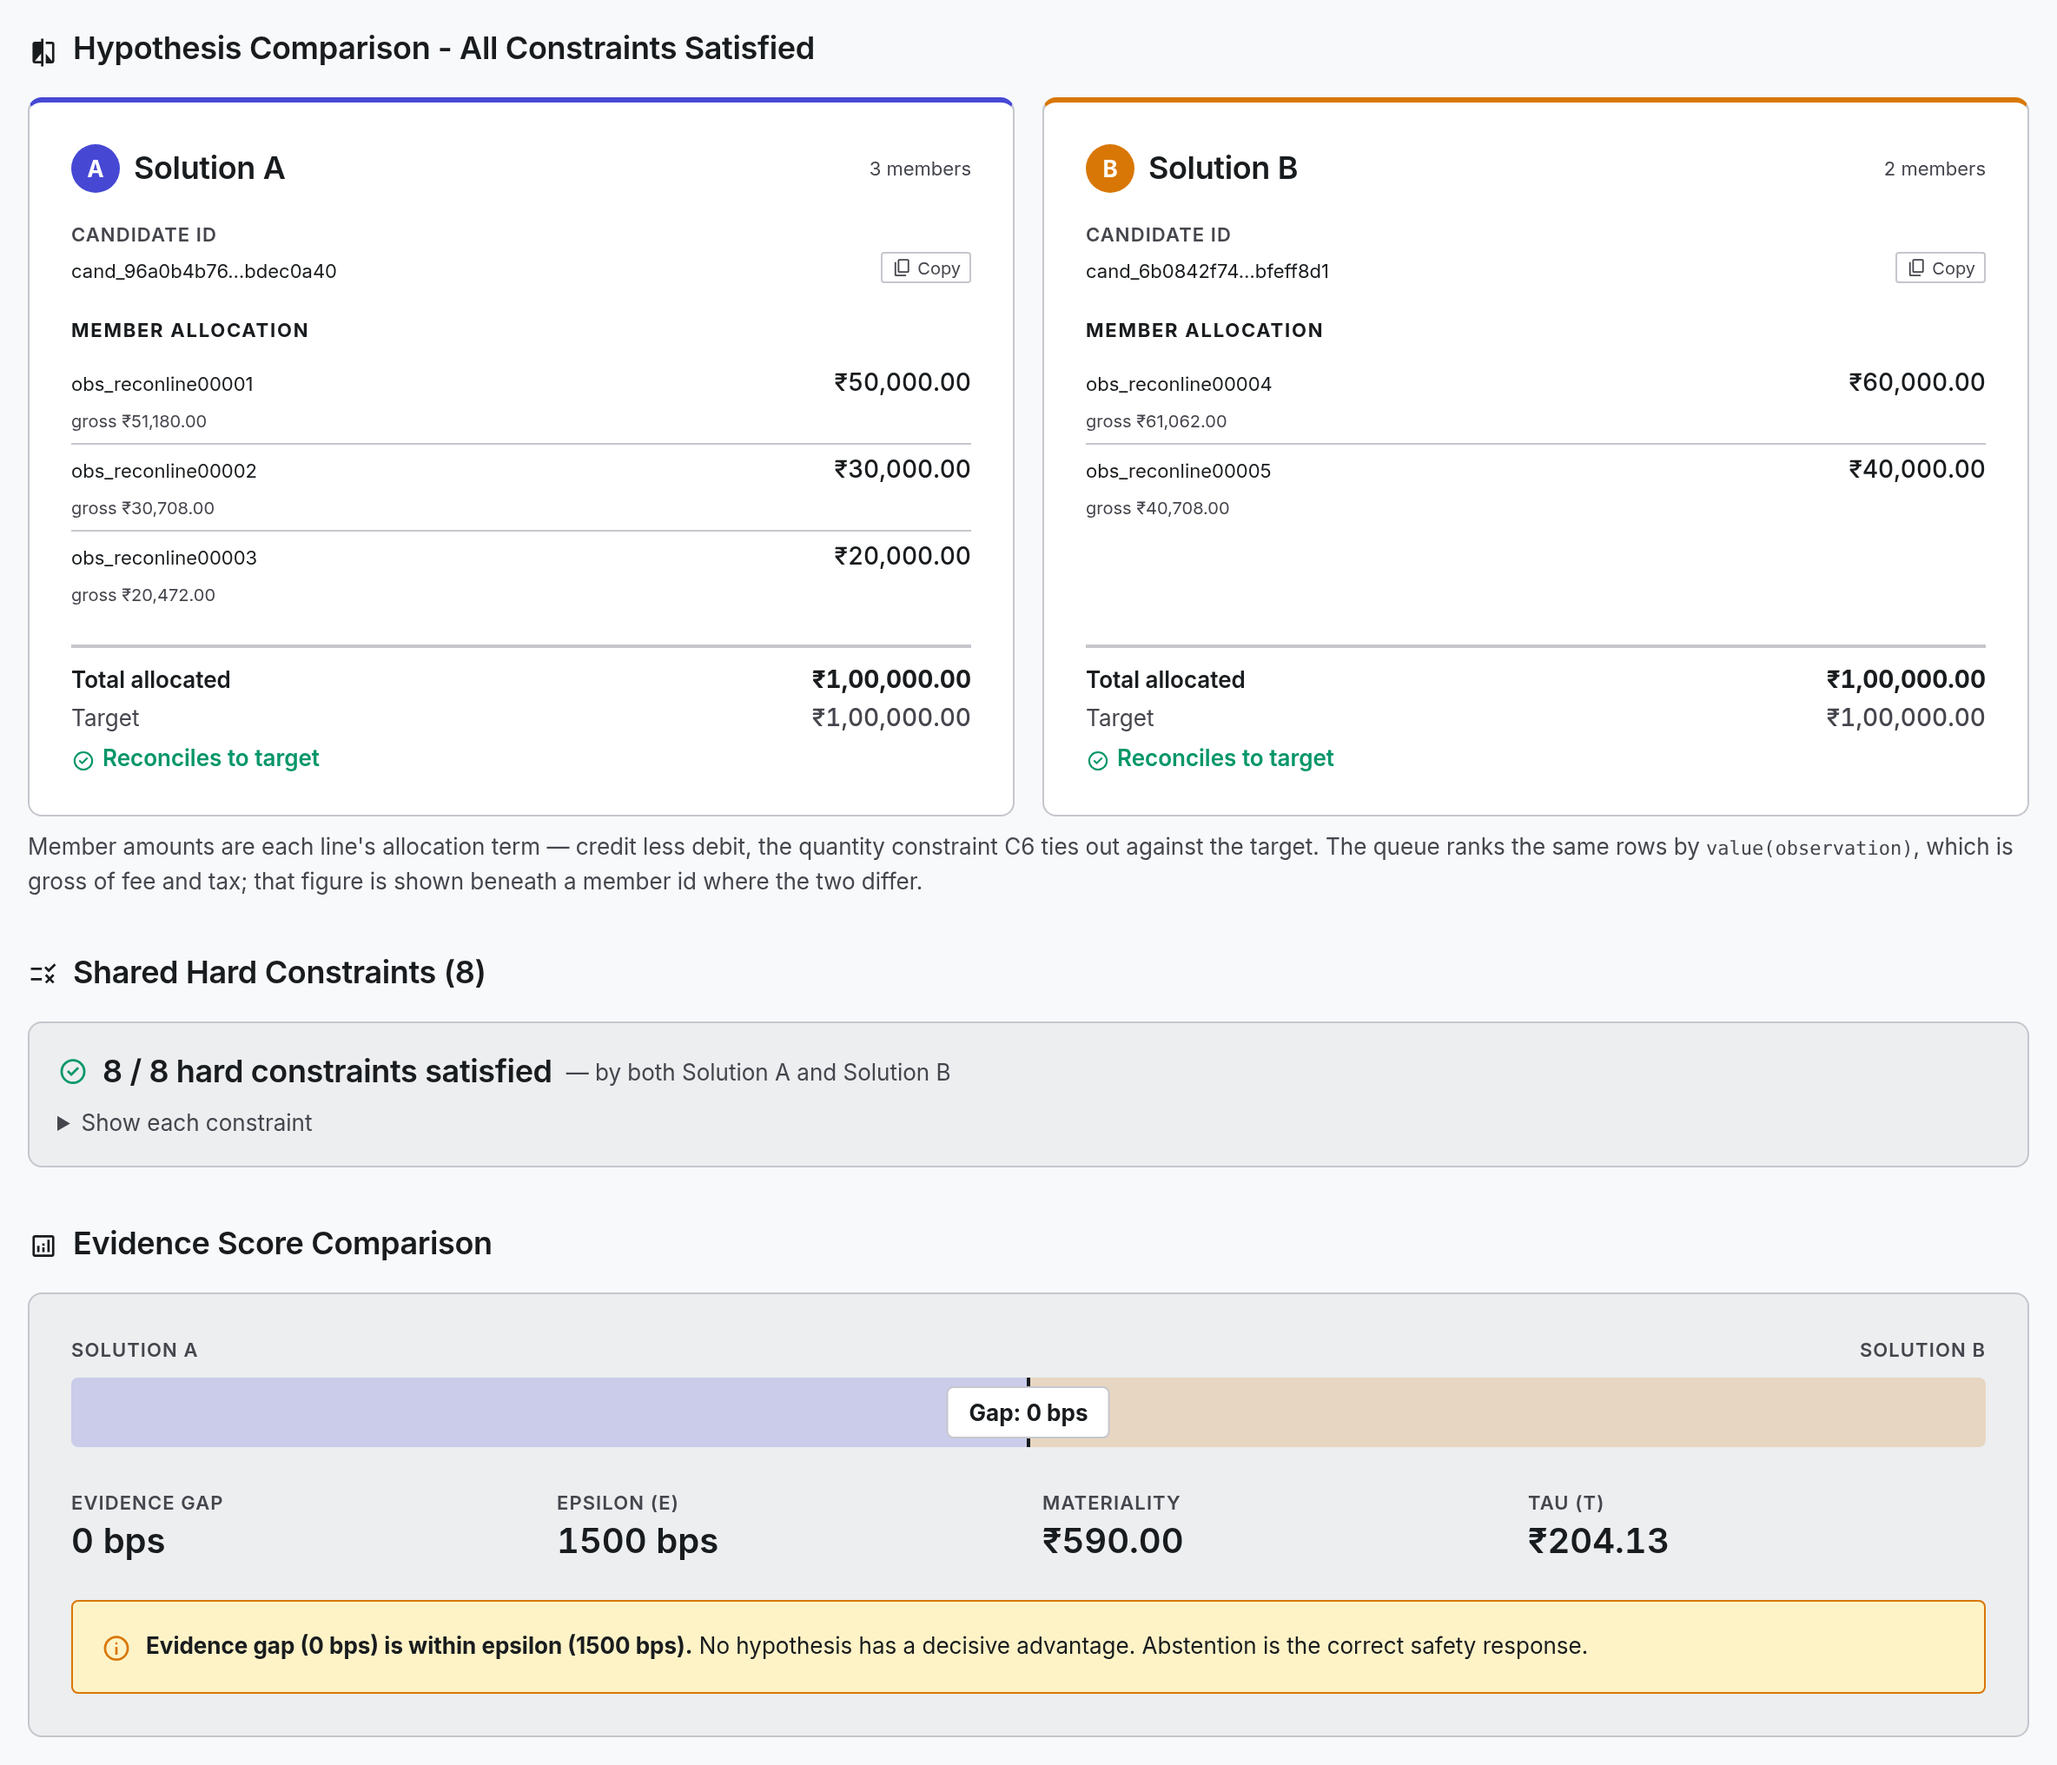
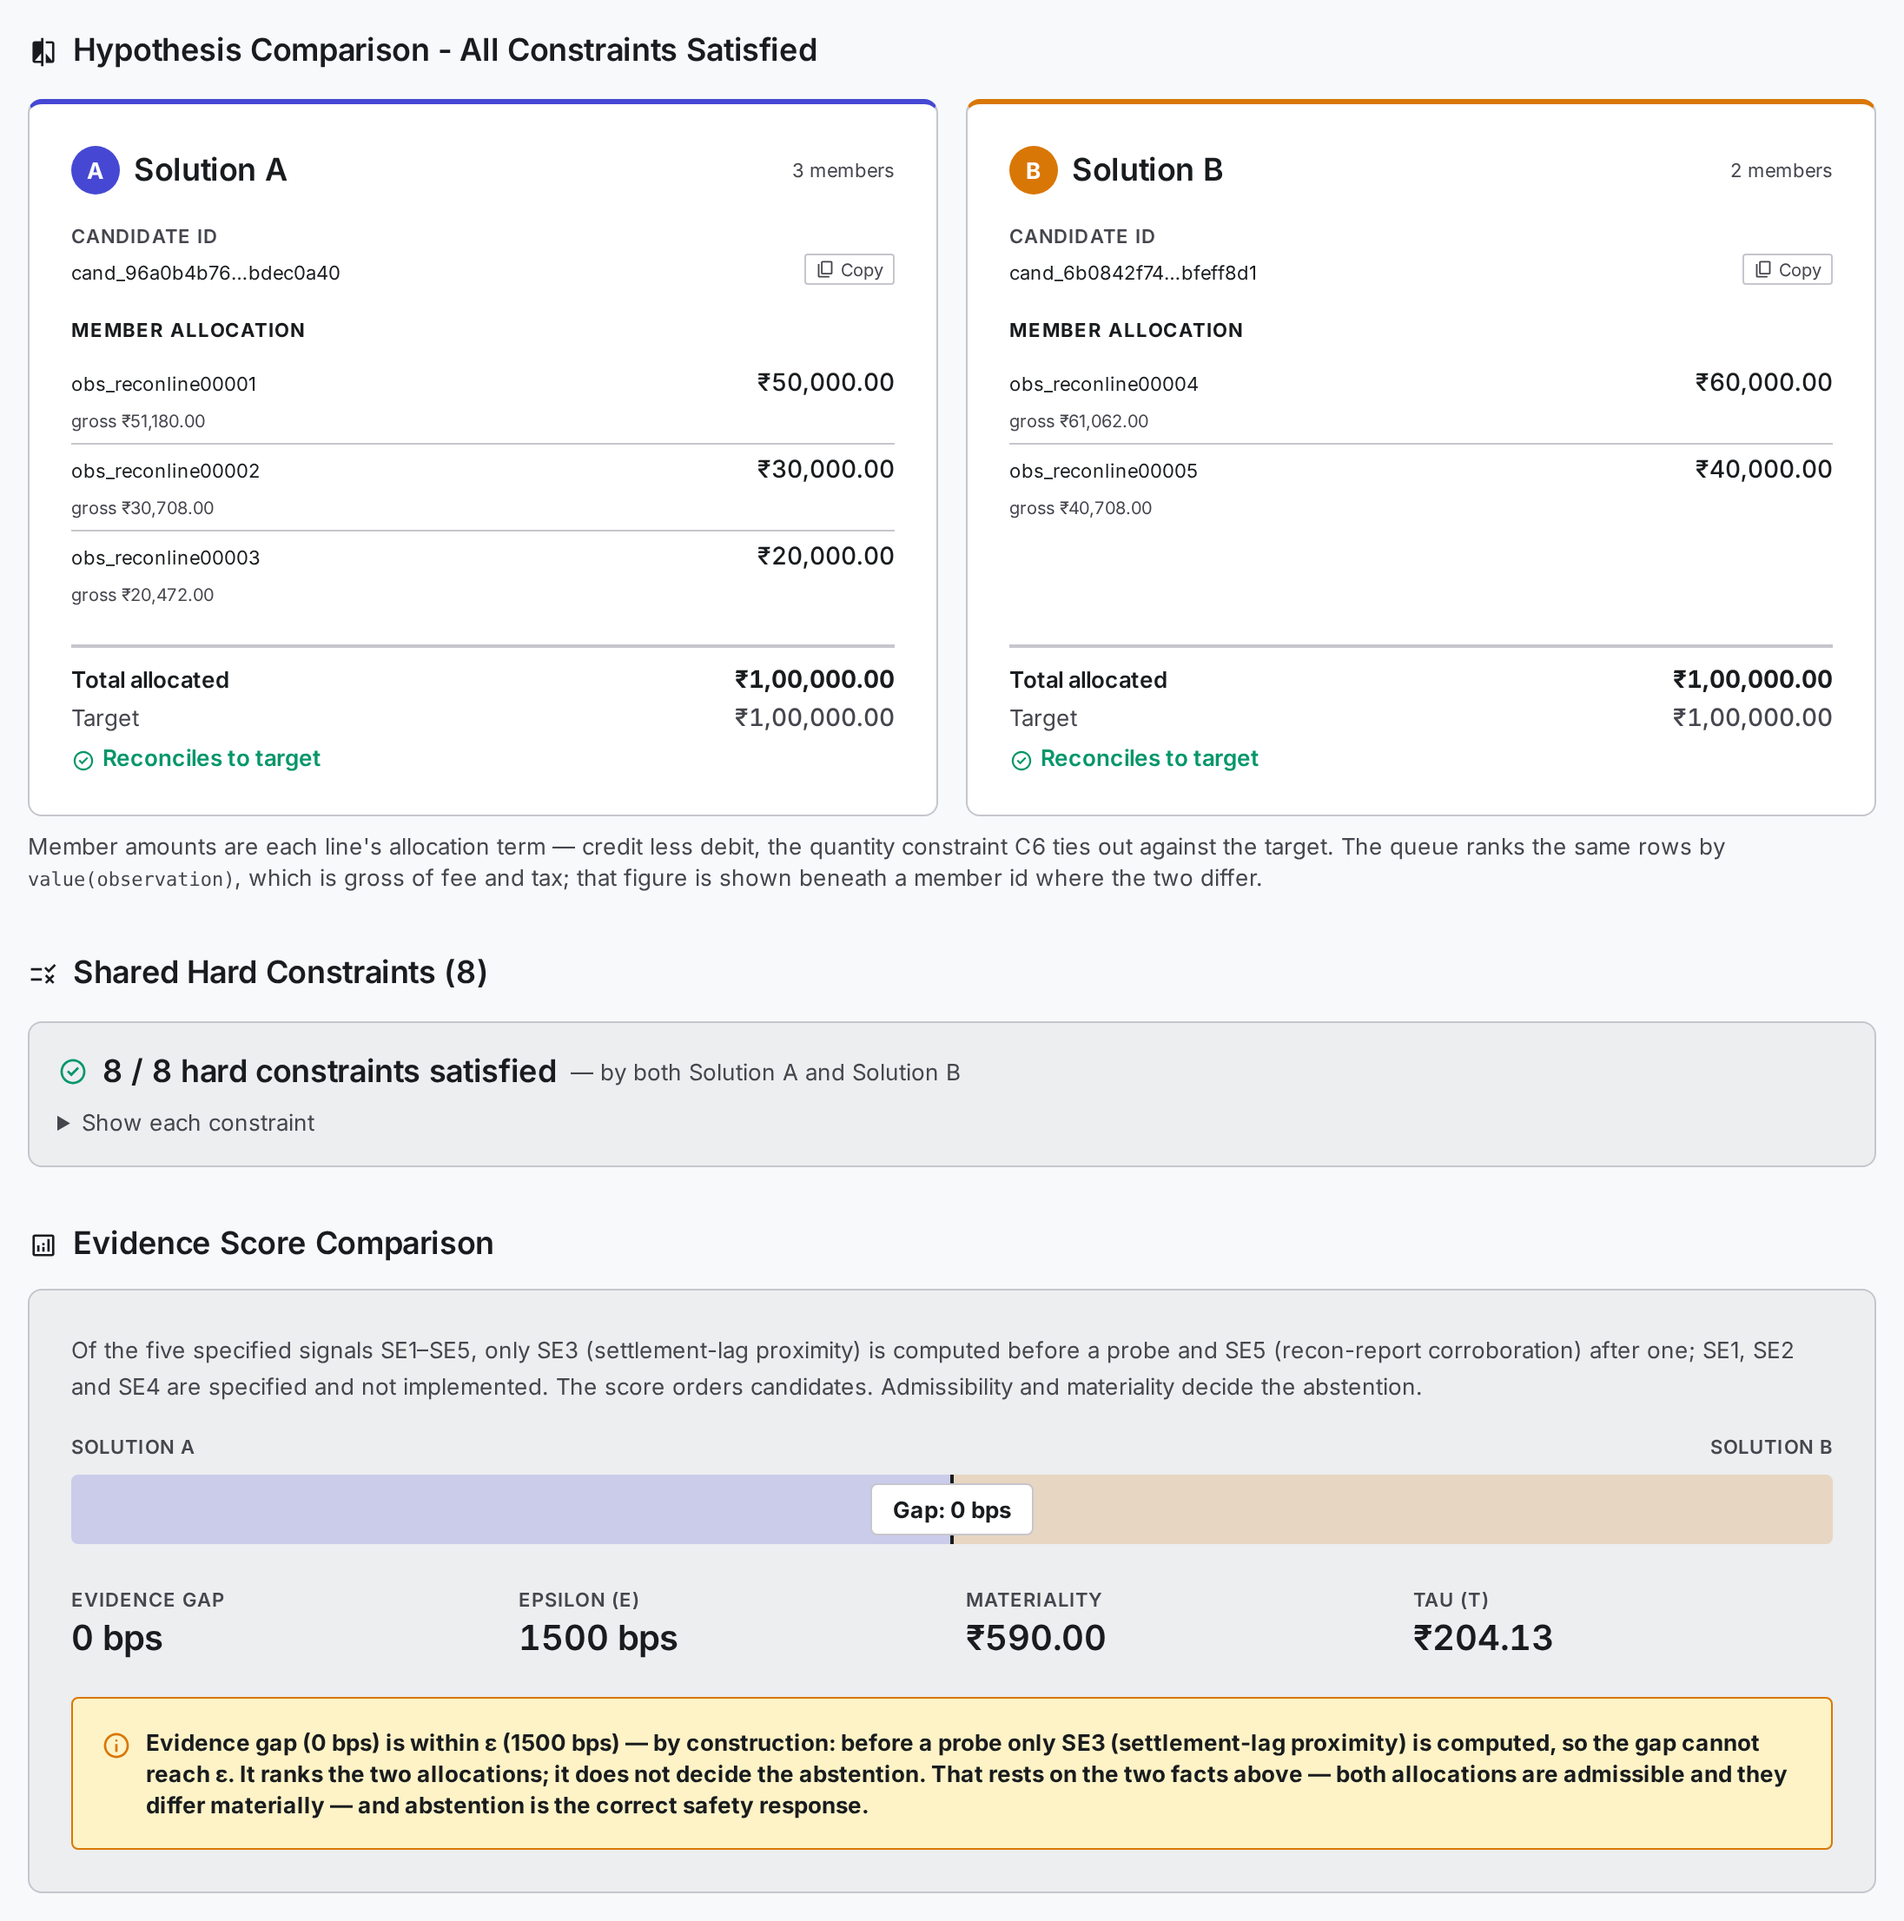
docs(readme): re-capture the demo against the spec-1.4.39 engine
Same harness as the submission captures: headless Chromium driving
apps/web against apps/api on demo-500, 1400x900 at 2x, icon font loaded,
regions clipped in page coordinates; demo.gif at 2 fps, 1000px wide.

demo-500's character is unchanged by the fix. Before/after on every
figure: abstentions 1 -> 1; affected observations 6 -> 6; exceptions
20 -> 20; queue rows 26 -> 26; unresolved value 10,000,000 paise ->
10,000,000; events 490 -> 490; materiality Rs 590.00 -> Rs 590.00; tau
Rs 204.13 -> Rs 204.13; gap 0 bps -> 0 bps; period OPEN -> OPEN; run_id
run_1aced16f... -> identical. With the SPEC_VERSION stamp equalised the
pre-fix and post-fix engines produce byte-identical runs for all four
demo periods; no demo-500 settlement reaches the branch the fix altered.
The ledger root moved f4c9c7a9... -> 0797e8dd... because engine_commit
(1.4.38 -> 1.4.39) enters the genesis hash, and for no other reason.

Frames 01-04 are byte-identical to the committed captures and are not
rewritten. 05, the standalone certificate region and the GIF change
only in copy: the gap callout and the Evidence Score note now state
that the 0 bps gap is structural. 06 changes only in the root shown.
Alt texts updated to match; the quoted verify:determinism output is the
real post-fix output.

diff --git a/README.md b/README.md
@@ -91,14 +91,14 @@ ledger from genesis, and diffs the pair. This is the real output:
     verify:determinism  api=http://127.0.0.1:8787  dataset=demo-500
 
     run_id                  same       run_1aced16fd786c5c2ebb91b7a0a0274303316dc8b0ed14e762591a4550b228eb9
-    ledger_root_hash        same       f4c9c7a962be138423636b94c8c431ebf6bb9a30a76e1e56d70d5769e6a68124
-    recomputed_root_hash    same       f4c9c7a962be138423636b94c8c431ebf6bb9a30a76e1e56d70d5769e6a68124
+    ledger_root_hash        same       0797e8dd2d242cb7d6fe718d8e675bd71d3bb3e407131a8ece3c2a45f8f2a718
+    recomputed_root_hash    same       0797e8dd2d242cb7d6fe718d8e675bd71d3bb3e407131a8ece3c2a45f8f2a718
     event_count             same       490
     total_dr_paise          same       259474718
     unresolved_value_paise  same       10000000
 
-    run 1: chain recomputes genesis→root yes, trial balance ok (259474718 dr = 259474718 cr), period OPEN, 0.48s wall clock on this machine — not a throughput rate
-    run 2: chain recomputes genesis→root yes, trial balance ok (259474718 dr = 259474718 cr), period OPEN, 0.33s wall clock on this machine — not a throughput rate
+    run 1: chain recomputes genesis→root yes, trial balance ok (259474718 dr = 259474718 cr), period OPEN, 0.43s wall clock on this machine — not a throughput rate
+    run 2: chain recomputes genesis→root yes, trial balance ok (259474718 dr = 259474718 cr), period OPEN, 0.39s wall clock on this machine — not a throughput rate
 
     PASS: 6 fields identical across two independent runs; both chains verify. The run id and root hash are functions of the input, not of a clock.
     Note: demo-500 is a product fixture, not benchmark evidence (see demo/README.md).
@@ -106,9 +106,14 @@ ledger from genesis, and diffs the pair. This is the real output:
 **Your machine prints the same two hashes.** The run id and the ledger root are
 functions of the **input** — the observations, the frozen thresholds, the posting
 rules — and not of a clock, a map-iteration order or a random seed. Two runs on
-two machines a week apart reach `run_1aced16f…` and `f4c9c7a9…` or one of them
+two machines a week apart reach `run_1aced16f…` and `0797e8dd…` or one of them
 is wrong, and `GET /runs/:id/ledger/verify` recomputes the whole chain from
-genesis to say which. `259474718 dr = 259474718 cr` is the trial balance closing
+genesis to say which. (Before spec 1.4.39 the root was `f4c9c7a9…`; the run id
+is unchanged. The root moved because the engine's version stamp enters the
+genesis hash — `engine_commit: 1.4.38 → 1.4.39` — and for **no other reason**:
+with the stamp equalised, the pre-fix and post-fix engines produce this run
+byte-for-byte identically, because no demo-500 settlement reaches the branch
+the fix changed. See *What the evidence model is* below.) `259474718 dr = 259474718 cr` is the trial balance closing
 on the 490 events the run posted.
 
 **What this does and does not show.** The ~half-second wall clock is for this
@@ -196,7 +201,7 @@ The controller's trace — `ESCALATED` after `10 / 64` steps, `4` read-only tool
 
 The queue — the `setl_AMBIG000000000` row is the abstained settlement; the five `pay_AMB…` rows beneath it are its members, each carrying the same certificate badge.
 
-![The Ambiguity Certificate: Solution A and Solution B both reconciling to ₹1,00,000.00, 8 / 8 hard constraints satisfied, evidence gap 0 bps, epsilon 1500 bps, materiality ₹590.00, tau ₹204.13, and the callout that abstention is the correct safety response](docs/assets/05-ambiguity-certificate.png)
+![The Ambiguity Certificate: Solution A and Solution B both reconciling to ₹1,00,000.00, 8 / 8 hard constraints satisfied, materiality ₹590.00 against tau ₹204.13, evidence gap 0 bps against epsilon 1500 bps with a note that only SE3 of the five specified signals is computed before a probe, and the callout that the gap is within epsilon by construction, ranks rather than decides, and that abstention rests on two admissible, materially different allocations](docs/assets/05-ambiguity-certificate.png)
 
 The certificate — two allocations that both tie out, `8 / 8` hard constraints, materiality `₹590.00` above τ `₹204.13`: the machine declining to guess. The `0 bps` evidence gap it also shows is **not** a measured tie — it is zero because the only signal computed before a probe is `SE3`, which reads settlement lag that both allocations share; the rest of the weighted sum is constants (see [*What the evidence model is*](#what-the-evidence-model-is-and-is-not)).
 
@@ -209,7 +214,7 @@ running product rather than drawn.
 
 ### 1. The Ambiguity Certificate — the machine declining to guess
 
-![The ASSAY Ambiguity Certificate for settlement setl_AMBIG000000000: Solution A allocating three recon lines and Solution B allocating two, both totalling ₹1,00,000.00 against the same ₹1,00,000.00 target, 8 of 8 shared hard constraints satisfied by both, an evidence gap of 0 bps against an epsilon of 1500 bps, and an amber callout reading "Evidence gap (0 bps) is within epsilon (1500 bps). No hypothesis has a decisive advantage. Abstention is the correct safety response."](docs/assets/ambiguity-certificate.png)
+![The ASSAY Ambiguity Certificate for settlement setl_AMBIG000000000: Solution A allocating three recon lines and Solution B allocating two, both totalling ₹1,00,000.00 against the same ₹1,00,000.00 target, 8 of 8 shared hard constraints satisfied by both, an evidence gap of 0 bps against an epsilon of 1500 bps, a note that of the five specified signals only SE3 is computed before a probe and SE5 after one, and an amber callout reading "Evidence gap (0 bps) is within ε (1500 bps) — by construction: before a probe only SE3 (settlement-lag proximity) is computed, so the gap cannot reach ε. It ranks the two allocations; it does not decide the abstention. That rests on the two facts above — both allocations are admissible and they differ materially — and abstention is the correct safety response."](docs/assets/ambiguity-certificate.png)
 
 Two allocations of the same ₹1,00,000.00 settlement. Both tie out to the target,
 both satisfy all 8 hard constraints, and they **differ materially in the books**
@@ -253,6 +258,19 @@ Both are unretouched page regions from a real Chromium session driving the real
 `apps/web` against the real `apps/api` on `demo-500` — clipped in page
 coordinates rather than cropped from a window, which is why neither carries
 browser chrome. Nothing in either image is drawn, mocked or composited.
+
+**Re-captured on 2026-09-18 against the spec-1.4.39 engine** (the post-submission
+fix, `V37`), with the same harness: headless Chromium, 1400×900 viewport at 2×,
+icon font loaded, each region clipped in page coordinates. Every `demo-500`
+figure — 1 abstention, 6 affected observations, 20 exceptions, 26 queue rows,
+₹1,00,000.00 unresolved, 490 events, materiality ₹590.00, τ ₹204.13, gap
+0 bps — is **unchanged**, because no `demo-500` settlement reaches the branch
+the fix altered; the Command Center, controller and queue captures are
+byte-identical to the submission's. What did change on screen is the
+certificate's copy (the gap callout and the note under *Evidence Score
+Comparison* now say why the gap is zero) and the ledger root on Verify Ledger
+(`0797e8dd…`, moved by the engine's version stamp alone — see *Verify it in
+sixty seconds*).
 
 To reproduce them by hand: start the app as *Run the demo* below describes, pick
 **`demo-500`**, and press **Run Demo**.
